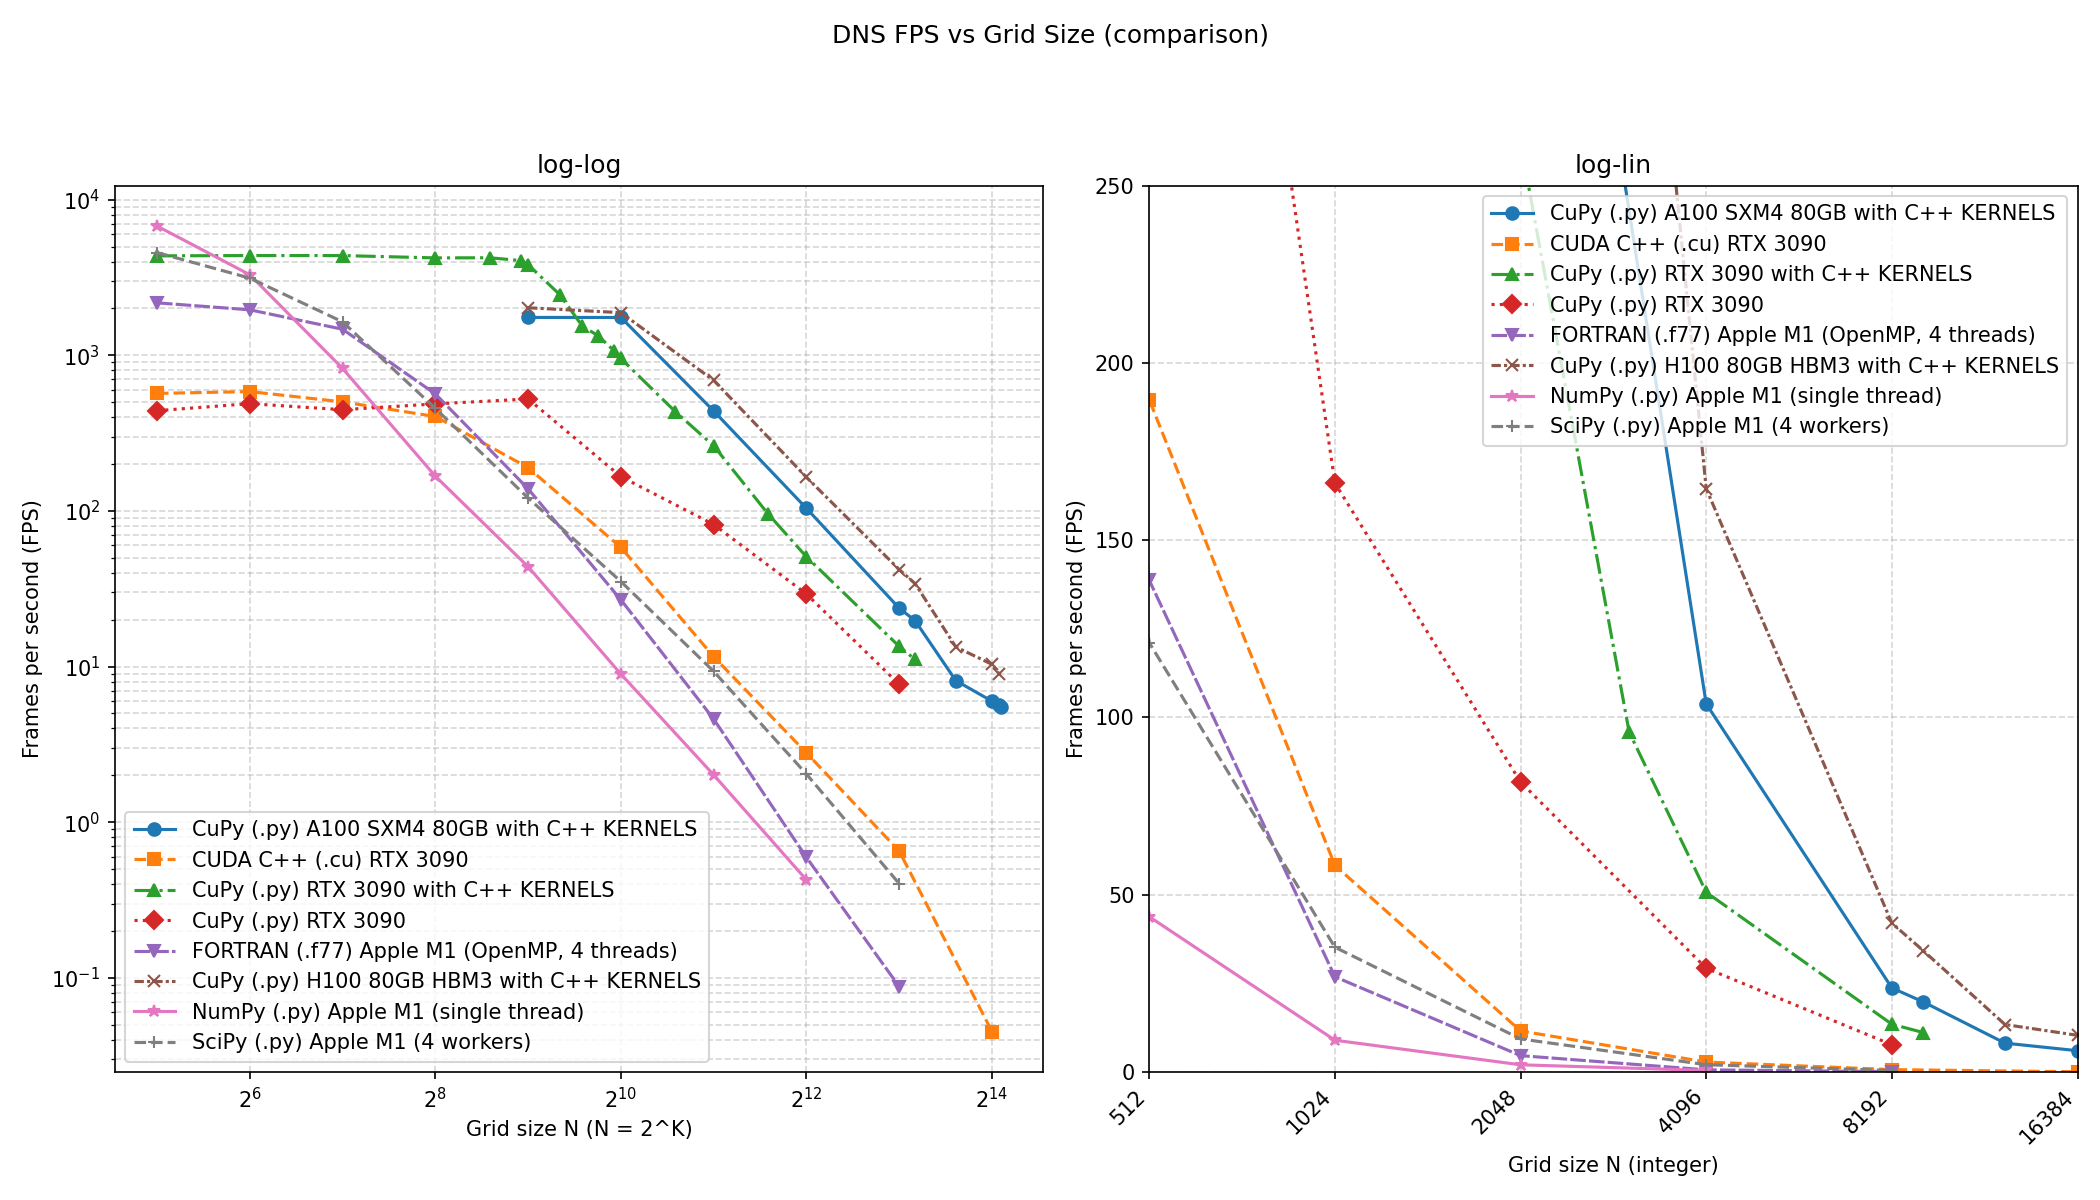
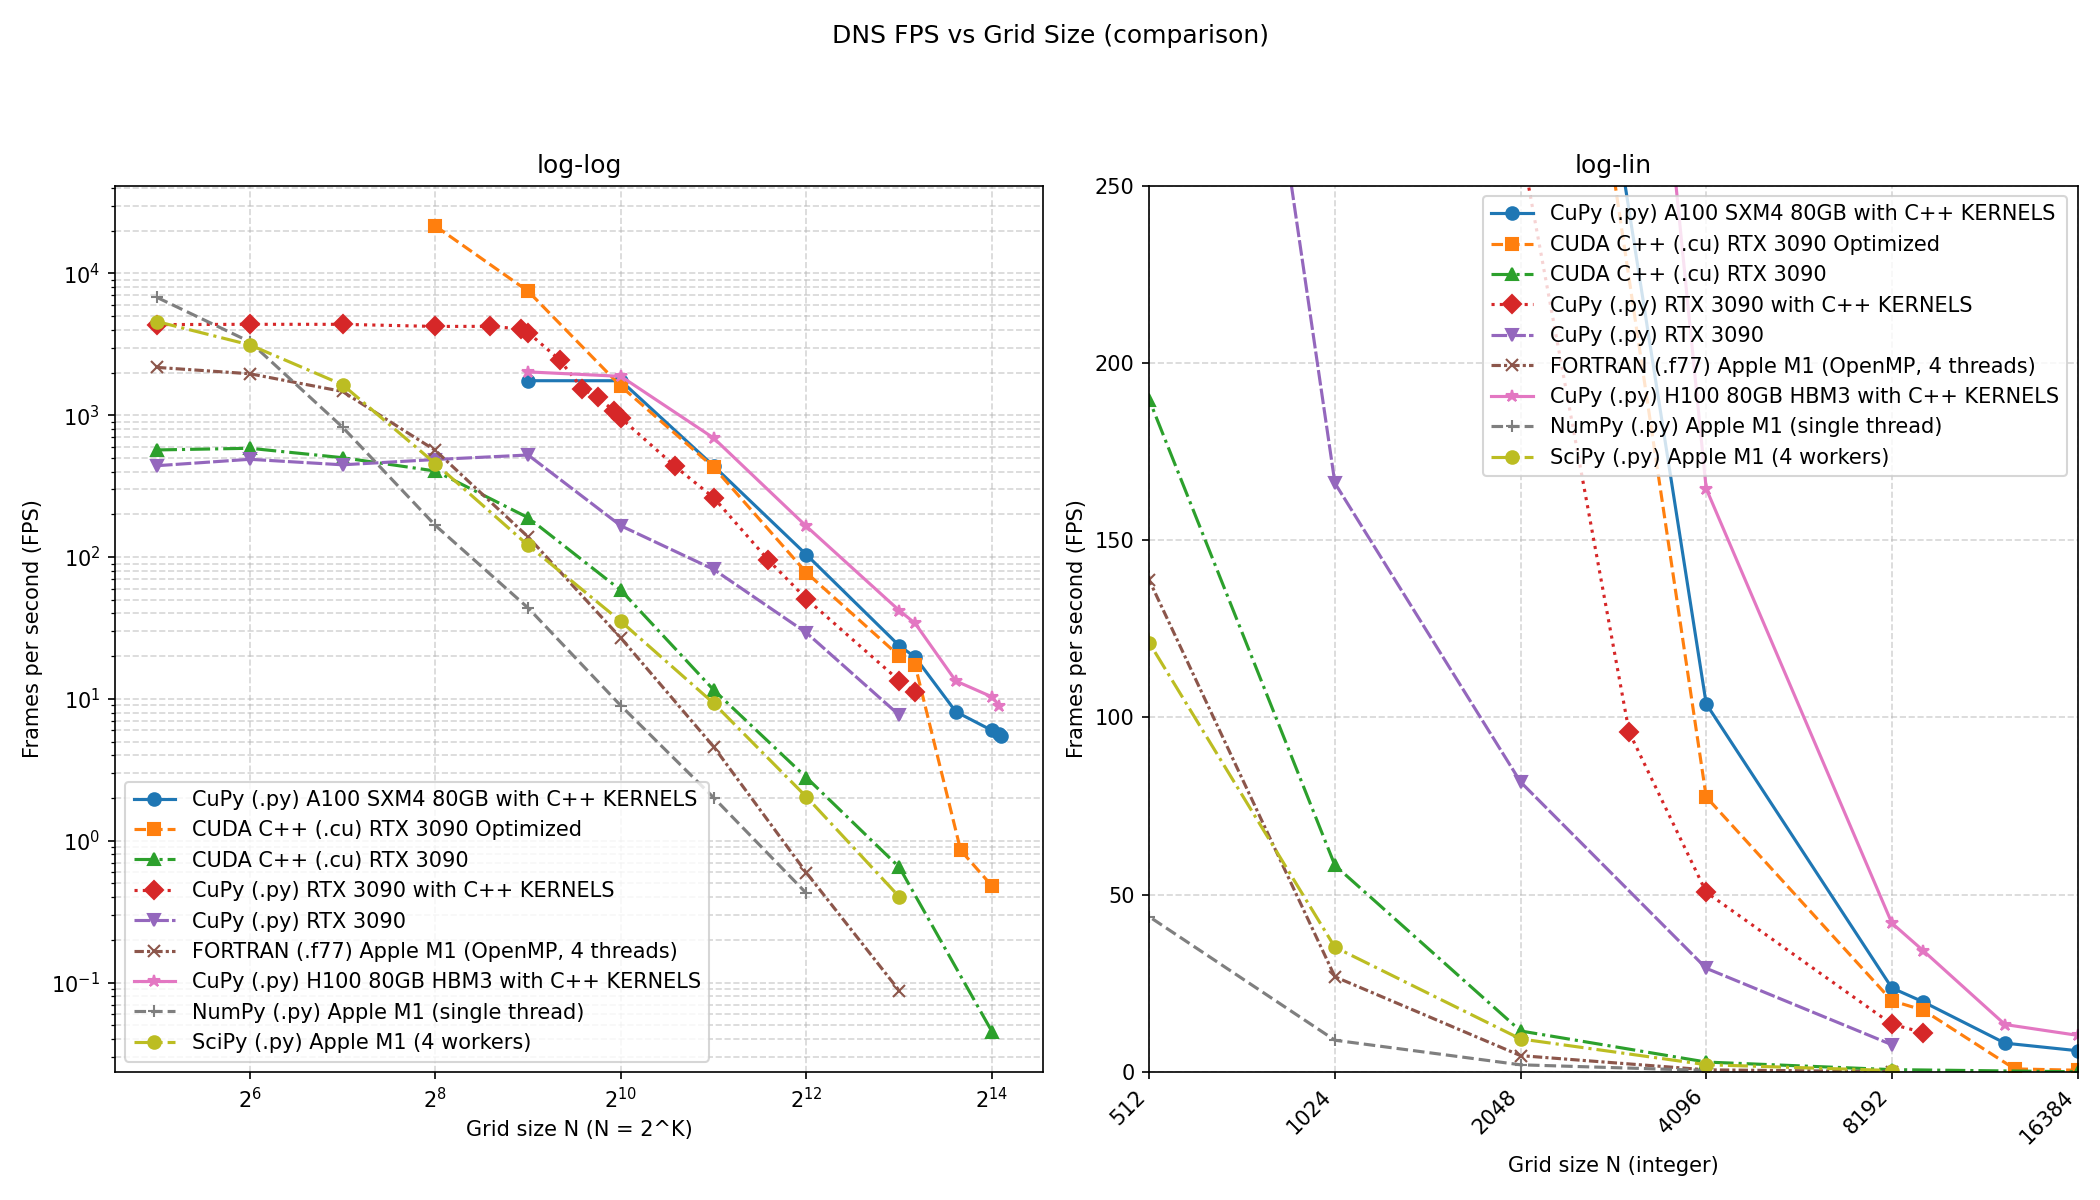
CUDA Optimized

diff --git a/fps/fps_compare.py b/fps/fps_compare.py
@@ -23,6 +23,7 @@ def label_from_filename(path: str) -> str:
         "cufft":   "CuPy (.py) RTX 3090 with C++ KERNELS",
         "cupy":    "CuPy (.py) RTX 3090",
         "cuda":    "CUDA C++ (.cu) RTX 3090",
+        "cu":      "CUDA C++ (.cu) RTX 3090 Optimized",
         "fortran": "FORTRAN (.f77) Apple M1 (OpenMP, 4 threads)",
         "numpy":   "NumPy (.py) Apple M1 (single thread)",
         "scipy":   "SciPy (.py) Apple M1 (4 workers)",
